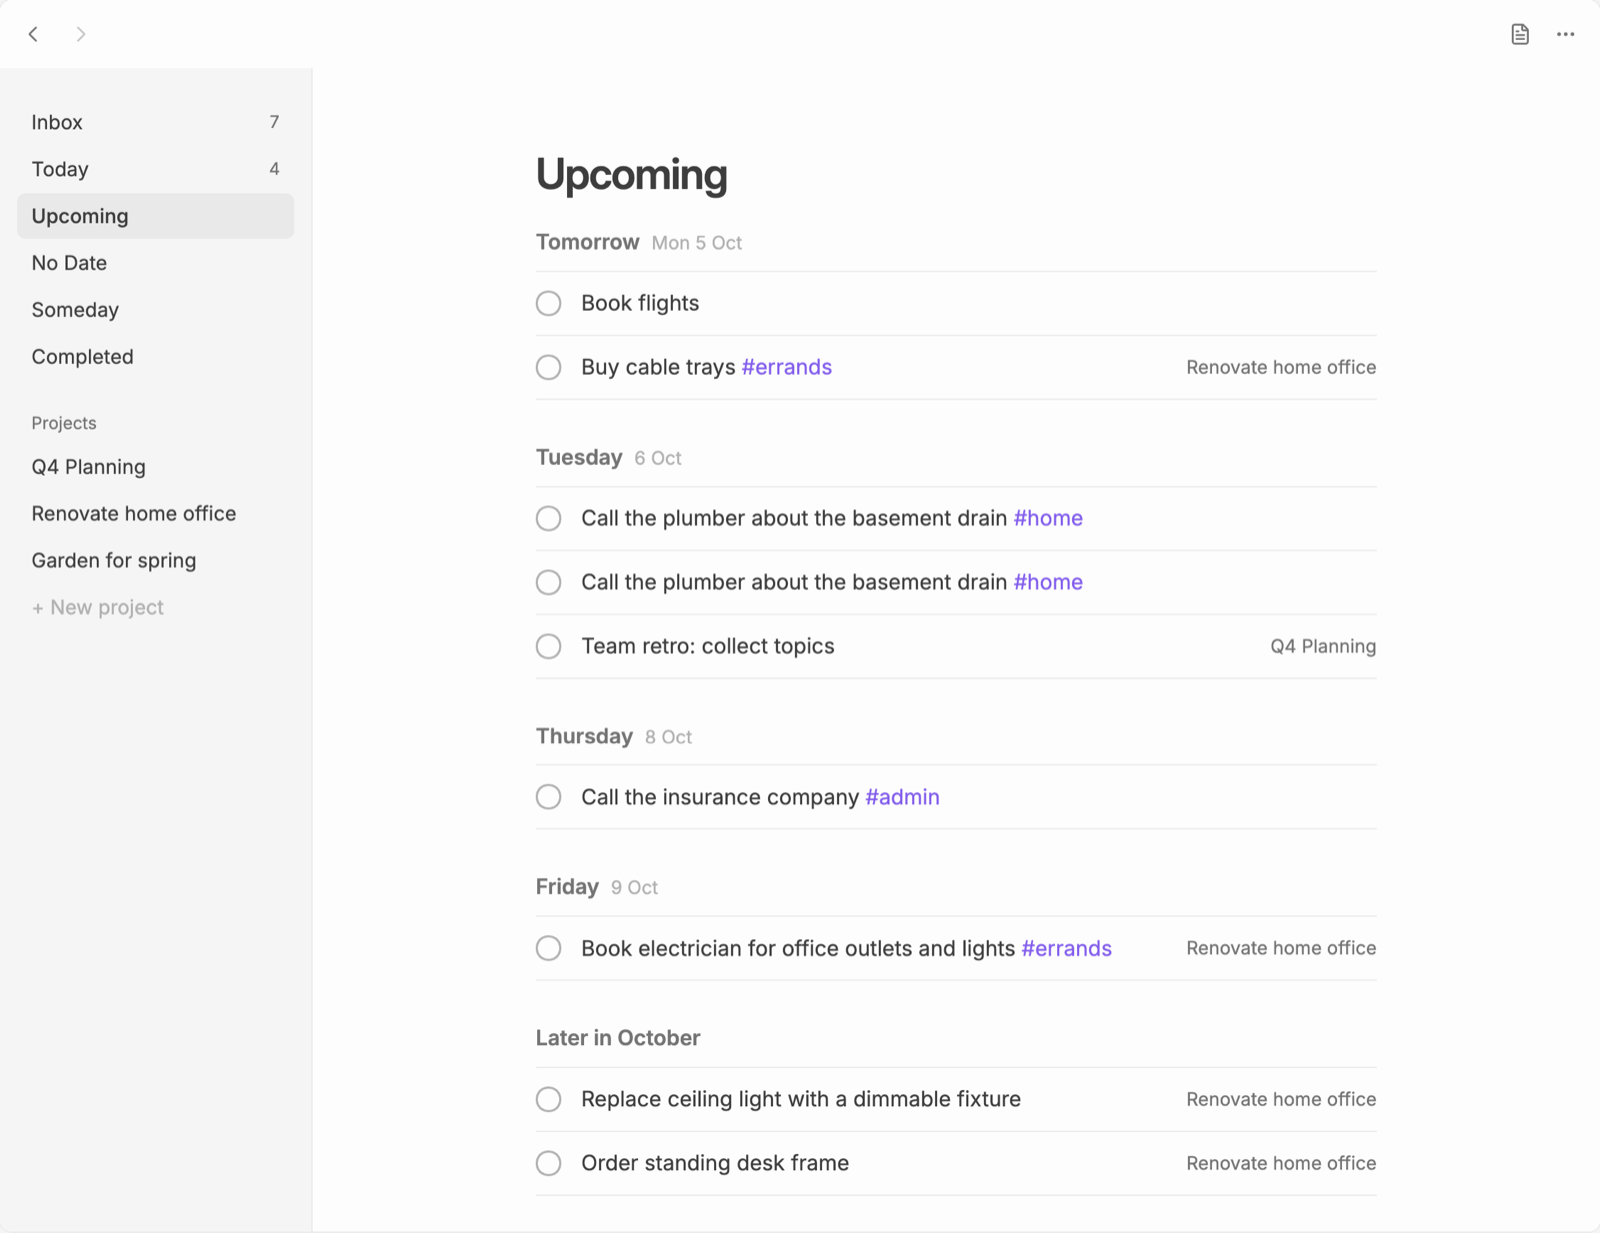
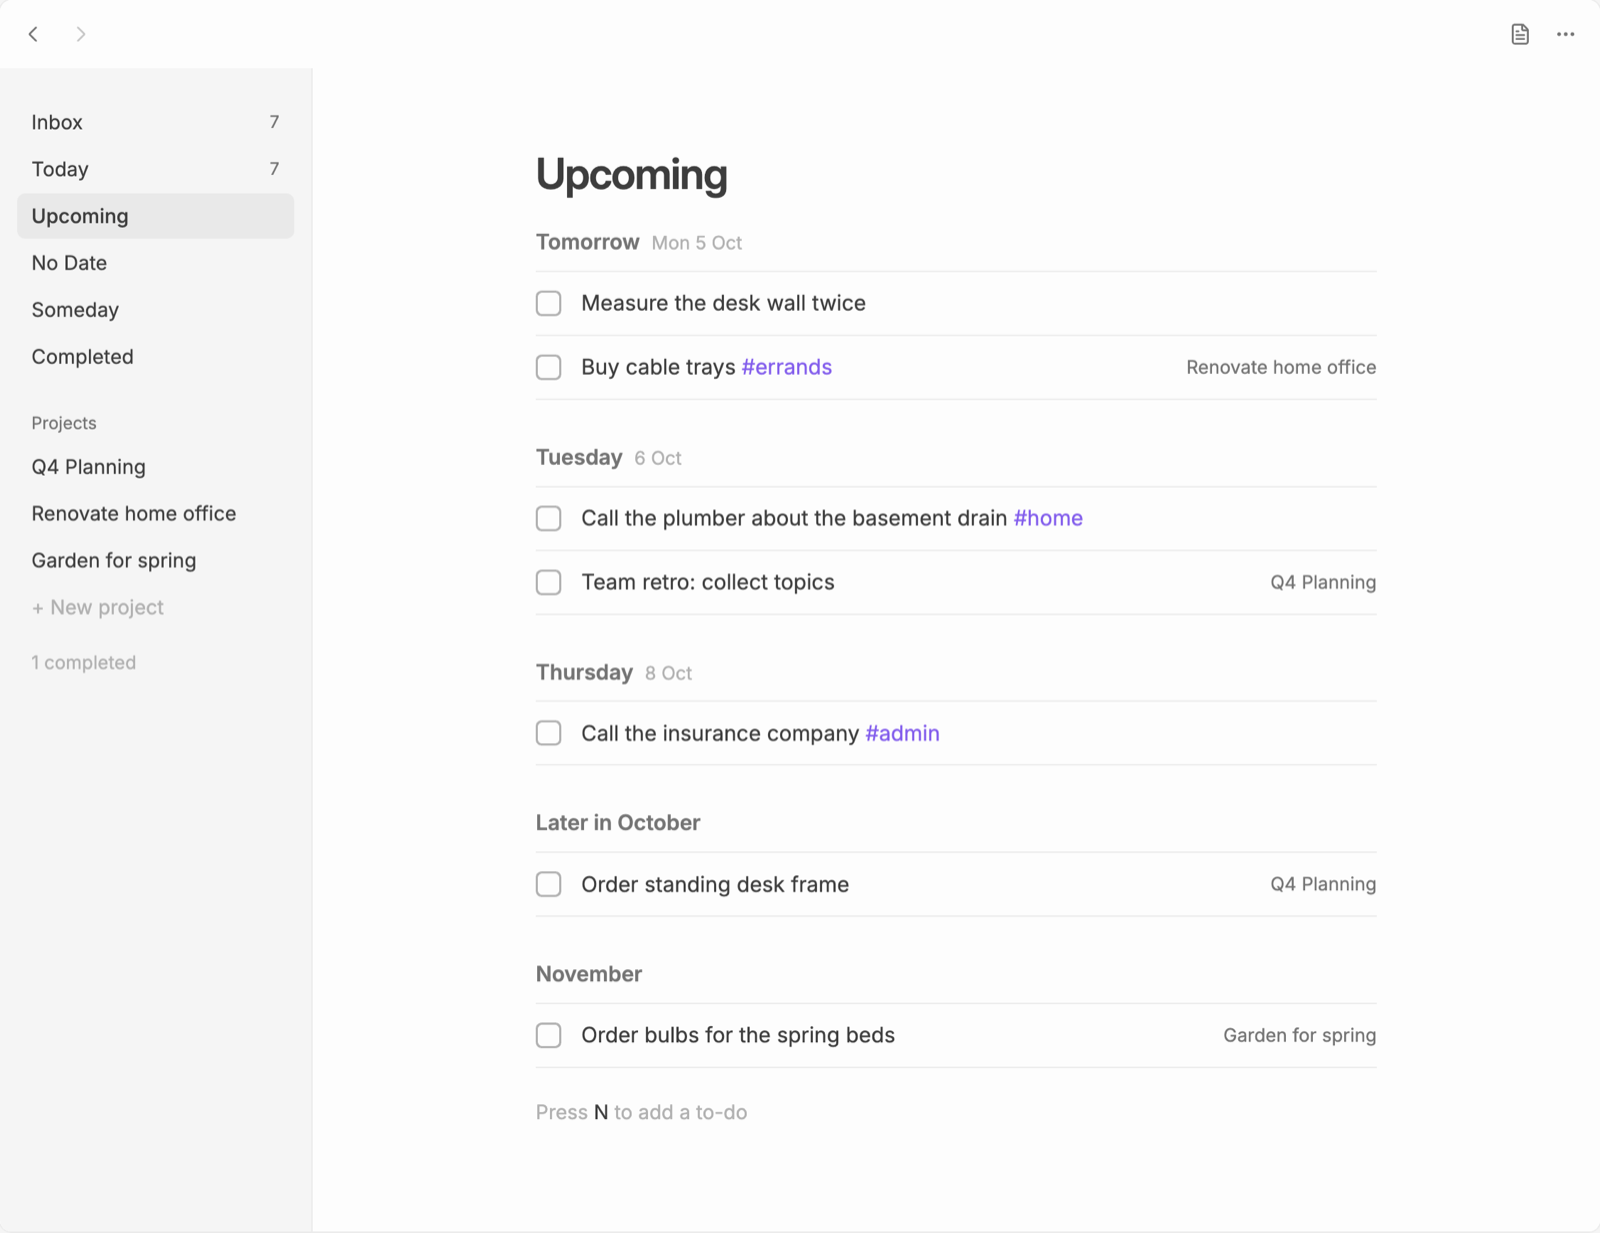
Release 1.0.0
Add the MIT license, set the manifest and package to 1.0.0 with a
directory-ready description, publish GitHub releases directly from the
release workflow, and refresh the README with install steps and
screenshots.

diff --git a/README.md b/README.md
@@ -14,6 +14,18 @@ Plainlist turns your notes into a clean, minimal task manager in Obsidian. A tas
 |---|---|
 | ![Upcoming](assets/upcoming.png) | ![Project](assets/project.png) |
 
+Quick capture recognises dates as you type and takes them out of the title:
+
+![Quick capture](assets/capture.png)
+
+## Installing
+
+In Obsidian, open **Settings → Community plugins → Browse**, search for **Plainlist**, then install and enable it.
+
+To install by hand, download `main.js`, `manifest.json` and `styles.css` from the [latest release](https://github.com/MrVersano/Plainlist/releases/latest) into `<your vault>/.obsidian/plugins/plainlist/`, then enable Plainlist under **Settings → Community plugins**.
+
+Plainlist needs Obsidian 1.13 or later, and works on desktop and mobile.
+
 ## Getting started
 
 Run **Plainlist: Open** from the command palette (or click the ribbon icon). It opens `Tasks.md`, creating it if needed. Any note with `plainlist: true` in its properties opens in the Plainlist view; use the header button or **Plainlist: Switch between task list and Markdown** to see the raw Markdown.
@@ -117,4 +129,4 @@ The file model (`src/model/`) and date parsing (`src/dates/`) have no Obsidian i
 ## Releasing
 
 1. `npm version patch` (or `minor` / `major`) updates `manifest.json`, `package.json` and `versions.json`.
-2. Push the tag (`git push --follow-tags`). The release workflow builds the plugin and creates a draft GitHub release with `main.js`, `manifest.json` and `styles.css`.
+2. Push the commit and tag (`git push --follow-tags`). The release workflow builds the plugin and publishes a GitHub release with `main.js`, `manifest.json` and `styles.css`.
